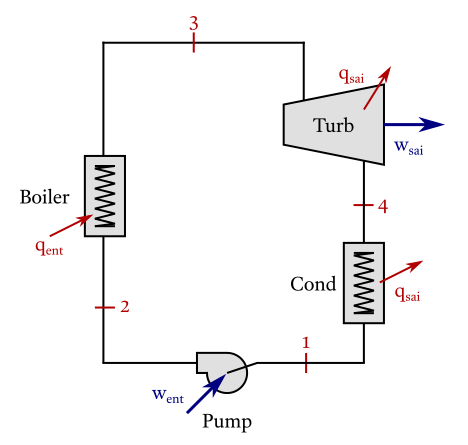
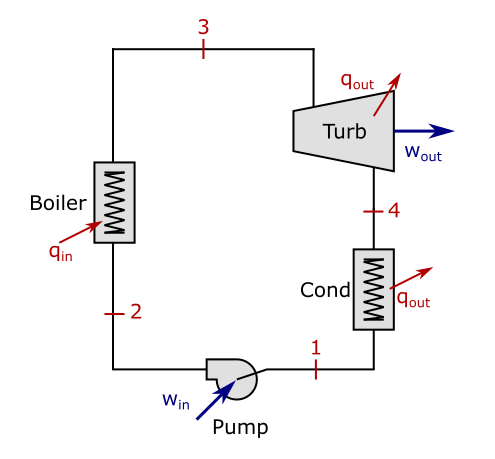
Update Docs sample images

Changed region(s): [[0.0299, 0.0292, 0.9573, 0.964]]

diff --git a/docs/src/manual_structure.md b/docs/src/manual_structure.md
@@ -1,0 +1,30 @@
+# Cycle structure
+
+After initialization, the structure of the cycle is created, using named functions based on the components they represent and the input state of the component being informed in the first parameter of the function and the output state being informed in the second parameter.
+
+> ### List of components:
+> - pump(inState, outState, optionalEfficiency)
+> - turbine(inState, outState, optionalEfficiency)
+> - condenser(inState, outState)
+> - boiler(inState, outState)
+> - evaporator(inState, outState)
+> - evaporator_condenser(inState, outState)
+> - expansion_valve(inState, outState)
+> - flash_chamber(inState, outState)
+> - heater_closed(inState, outState)
+> - heater_open(inState, outState)
+> - mix(inState, outState)
+> - div(inState, outState)
+> - process_heater(inState, outState)
+> - compressor(inState, outState, optionalEfficiency)
+> - combustion_chamber(inState, outState)
+> - heater_exchanger(inState, outState, optionalEffectiveness)
+> - separator(inState, outState)
+
+### Components with more than one input or output state
+
+For the definition that the component has multiple input or output states, the states are inserted into a list, which will be the input or output parameter of the component. For example a mix with two input states, `st1` and `st2`, and an output state `st3`: `mix([st1, st2], st3)`.
+
+### Efficiency and effectiveness
+
+In order to include the efficiency and effectiveness of the components in the cycle schedule, the percentage value is defined in the third parameter of the component function, after defining the input and output states. For example, a turbine with input and output states, `st1` and `st2`, and isentropic efficiency of 90%: `turbine(st1, st2, 90)`.

diff --git a/docs/src/manual_properties.md b/docs/src/manual_properties.md
@@ -1,0 +1,15 @@
+# Define known properties
+
+To define properties that are already known to the system, you must specify the state and symbol of the known property, following the table below.
+
+> | Property thermodynamics        | Unit                 | Symbol of attributes of the state    |
+> | :---             | ---:                 | :---:                   |
+> | Temperature      | K                    | .T                      |
+> | Pressure         | kPa                  | .p                      |
+> | Enthalpy         | kJ/kg                | .h                      |
+> | Entropy          | kJ/kg.K              | .s                      |
+> | Quality          |                      | .Q                      |
+> | Density          | kg/m^3               | .rho                    |
+> | Mass flow        | kg/s                 | .m                      |
+
+Based on this, to assign the properties, the name of the state is concatenated with the symbol of the known attribute, followed by the equal sign and the value to be assigned, taking into account the units of each property.

diff --git a/docs/src/manual_initialize.md b/docs/src/manual_initialize.md
@@ -1,0 +1,12 @@
+# Initialize a cycle
+
+The function `newCycle[]` starts a cycle using water as the working fluid and without a known mass flow.
+
+### Cycle fluid change
+
+The change in the working fluid is done in the cycle start command, inserting the new fluid between square brackets at the end of the command.
+For example, changing the fluid to R134a: `newCycle[R134a]`.
+
+### Define the main mass flow of the cycle
+
+The definition of the mass flow is also done in the cycle initialization command, right after defining the working fluid of the cycle, inside the square brackets the value to be assigned is inserted after a colon sign. For example, for mass flow of 2.5 Kg/s and water as the working fluid: `newCycle[water: 2.5]`.

diff --git a/docs/src/index.md b/docs/src/index.md
@@ -19,6 +19,9 @@ julia> using Pkg
 julia> Pkg.add("CycleSolver")
 ```
 
+Additionally, you have the option to use the `CycleSolver.jl` package in an online environment, without the need for any local software installation. You can access it through the following link:
+ * [CycleSolver Online](https://mybinder.org/v2/gh/vFilipaki/CycleSolver.jl/v0.2.0)
+ 
 ## Citations
 
 How to cite this project:

diff --git a/docs/src/example4.md b/docs/src/example4.md
@@ -14,7 +14,9 @@
 
 !!! compat "Input code"
     ```julia
-    CycleSolver.@solve begin
+    using CycleSolver
+    
+    @solve begin
             st2.p / st1.p = 7
             st1.T = 20 + 273
             st1.p = 100
@@ -26,7 +28,7 @@
                 combustion_chamber(st4, st1)
     end
 
-    CycleSolver.PrintResults()
+    PrintResults()
     ```
 
 #### Output:

diff --git a/docs/src/example3.md b/docs/src/example3.md
@@ -13,7 +13,9 @@
 
 !!! compat "Input code"
     ```julia
-    CycleSolver.@solve begin
+    using CycleSolver
+    
+    @solve begin
         st3.T = 250 + 273
         st3.p = 1000
         st4.p = 100
@@ -28,7 +30,7 @@
             heater_open([st7, st4], st1)
     end
 
-    CycleSolver.PrintResults()
+    PrintResults()
     ```
     
 #### Output:

diff --git a/docs/src/example5.md b/docs/src/example5.md
@@ -12,7 +12,9 @@
 
 !!! compat "Input code"
     ```julia
-    CycleSolver.@solve begin
+    using CycleSolver
+    
+    @solve begin
         st1.p = 300
         st2.p = 1500
         newRefrigerationCycle[R134a]
@@ -22,7 +24,7 @@
             evaporator(st4, st1)
     end
 
-    CycleSolver.PrintResults()
+    PrintResults()
     ```
 #### Output:
 

diff --git a/docs/src/example2.md b/docs/src/example2.md
@@ -15,7 +15,9 @@
 
 !!! compat "Input code"
     ```julia
-    CycleSolver.@solve begin
+    using CycleSolver
+    
+    @solve begin
         st3.T = 250 + 273
         st5.T = 250 + 273
         st3.p = 1000
@@ -31,7 +33,7 @@
             condenser(st6, st1) 
     end
 
-    CycleSolver.PrintResults()
+    PrintResults()
     ```
 
 #### Output:

diff --git a/docs/src/example1.md b/docs/src/example1.md
@@ -11,7 +11,9 @@
 
 !!! compat "Input code"
     ```julia
-    CycleSolver.@solve begin
+    using CycleSolver
+    
+    @solve begin
         st3.T = 250 + 273
         st3.p = 1000
         st1.p = 10
@@ -23,7 +25,7 @@
             condenser(st4, st1) 
     end
 
-    CycleSolver.PrintResults()
+    PrintResults()
     ```
 
 #### Output:

diff --git a/docs/src/example6.md b/docs/src/example6.md
@@ -13,7 +13,9 @@
 
 !!! compat "Input code"
     ```julia
-    CycleSolver.@solve begin
+    using CycleSolver
+
+    @solve begin
 
         evaporator_condenser([stD, st2], [stA, st3])
 
@@ -33,7 +35,7 @@
             
     end
 
-    CycleSolver.PrintResults()
+    PrintResults()
     ```
 #### Output:
 
